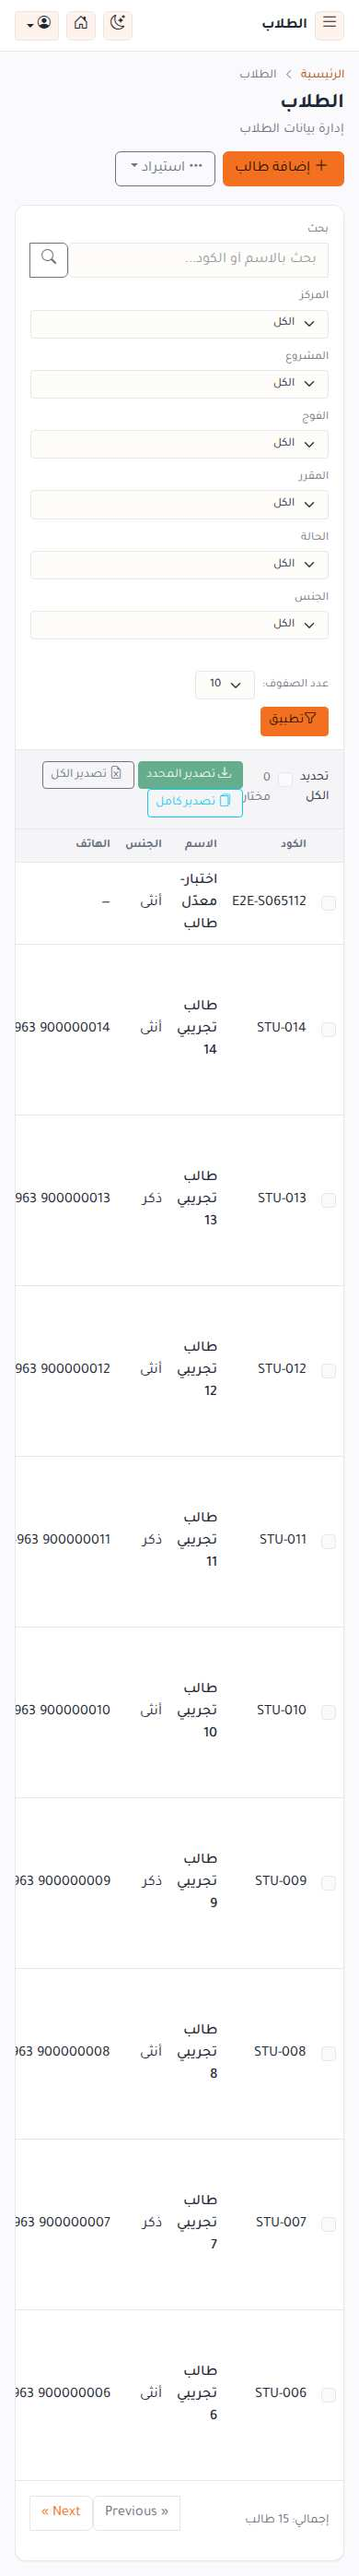
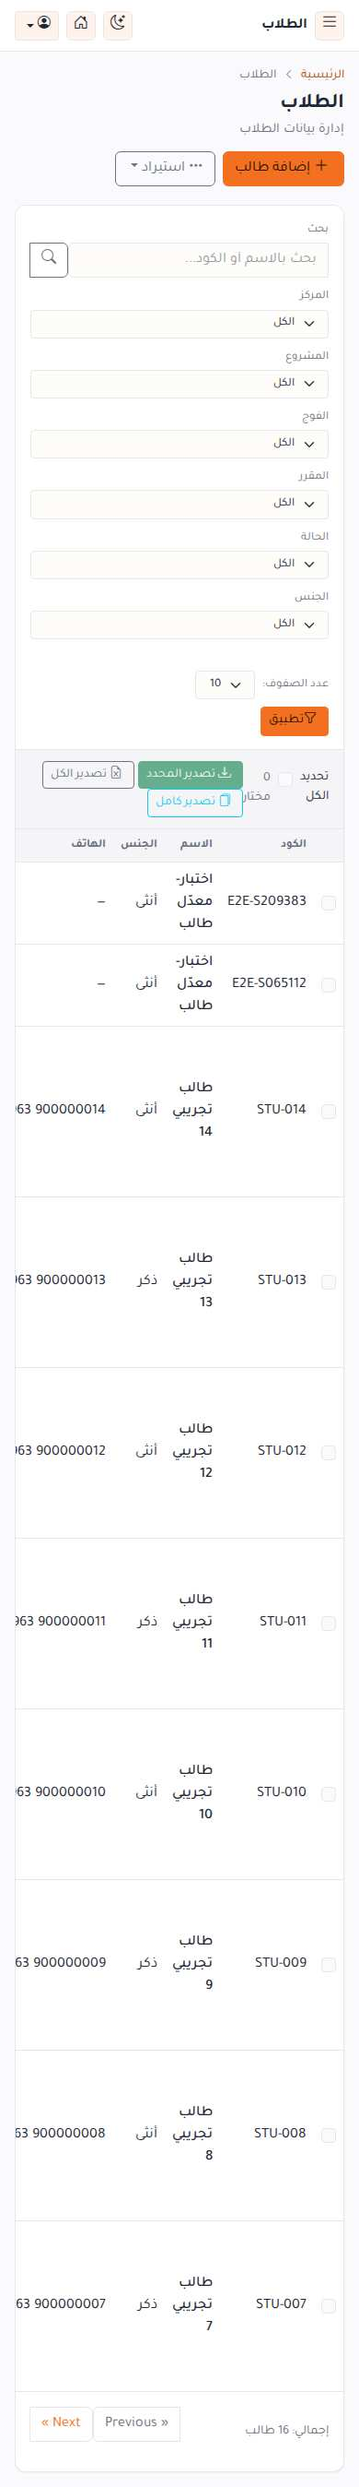
ui phase 2: admin, HR and students modules on the shared design system
- shared: filter-bar with explicit apply (no auto-submit), empty-row (no data vs no matches), per-page selector without auto-submit, forms.js (label links, required marks, aria-invalid/describedby, open hidden tab/details before focus, tab roles)
- validation: Arabic messages/attributes for /admin/* only (custom Validator resolver; app locale unchanged)
- lists: centers, cohorts, departments, groups, permissions, users, employees, students, courses, periods, levels, training plans, certificates, signers/sets, job positions, leave requests/approvals/policies
- profiles: employee and student summary header (identity/status), collapsible quick links
- forms: employee (tabs, split name fields), student (dynamic enrollment rows kept after failed validation with per-row errors), permissions matrix (labelled checkboxes, dark mode), groups (select visible only)
- attendance: keyboard-focusable radios, scope badges, status readable by text; timesheet shows the existing print view inline
- fixes: employees/statistics route was shadowed by employees/{employee}; undefined $hasFilters in its controller; hidden absolute elements caused horizontal page scroll in wide tables
- tests: UiPhase2Test (pest), tests/e2e/ui-phase-2.mjs (playwright, 68 checks), UiE2ESeeder

Claude-Session: https://claude.ai/code/session_01YEgvaTqFsc7FC5gLD8JdMZ

diff --git a/docs/ui-phase-2/README.md b/docs/ui-phase-2/README.md
@@ -1,0 +1,15 @@
+# المرحلة 2 — الإدارة والموارد البشرية والطلاب
+
+لقطات `before/` (main بعد دمج المرحلة 1) و`after/` (هذا الفرع)، بالخط الفعلي Tajawal، بأسماء `<الصفحة>-<العرض>-<المظهر>.jpg`
+(desktop=1440، mobile=390). لقطات `after/` الإضافية: `student-form-error-*` (فشل التحقق مع صف تسجيل) و`permissions-form-desktop-dark.jpg`.
+
+## إعادة التشغيل
+1. بيئة تجريبية معزولة: `cp .env.example .env && php artisan key:generate && touch database/database.sqlite && php artisan migrate --force`
+2. بيانات وحسابات: `php artisan db:seed --class=UiE2ESeeder --force` (موثقة في `database/seeders/UiE2ESeeder.php`؛ كلمة المرور `password`).
+3. `npm run build && php artisan serve --port=8002` ثم `BASE=http://localhost:8002 OUT=docs/ui-phase-2/after node tests/e2e/ui-phase-2.mjs`
+4. اختبارات PHP: `vendor/bin/pest tests/Feature/UiPhase2Test.php`
+
+## قيود معروفة
+- صفحتا `admin/students/statistics` (وأي استعلام `DATE_FORMAT`) تتطلبان MySQL؛ على sqlite المحلية تعطي 500 (قبل التعديل وبعده)، فلم أستطع فحصهما بصريًا.
+- «المناصب الوظيفية والاحتياجات»: لا توجد وحدة/مسار للاحتياجات في المشروع، فطُبّق التوحيد على المناصب فقط.
+- لم تُعدَّل: مصمم الشهادات، صفحات الطباعة/المعاينة/التحقق، وقوالب التايم شيت للطباعة.
